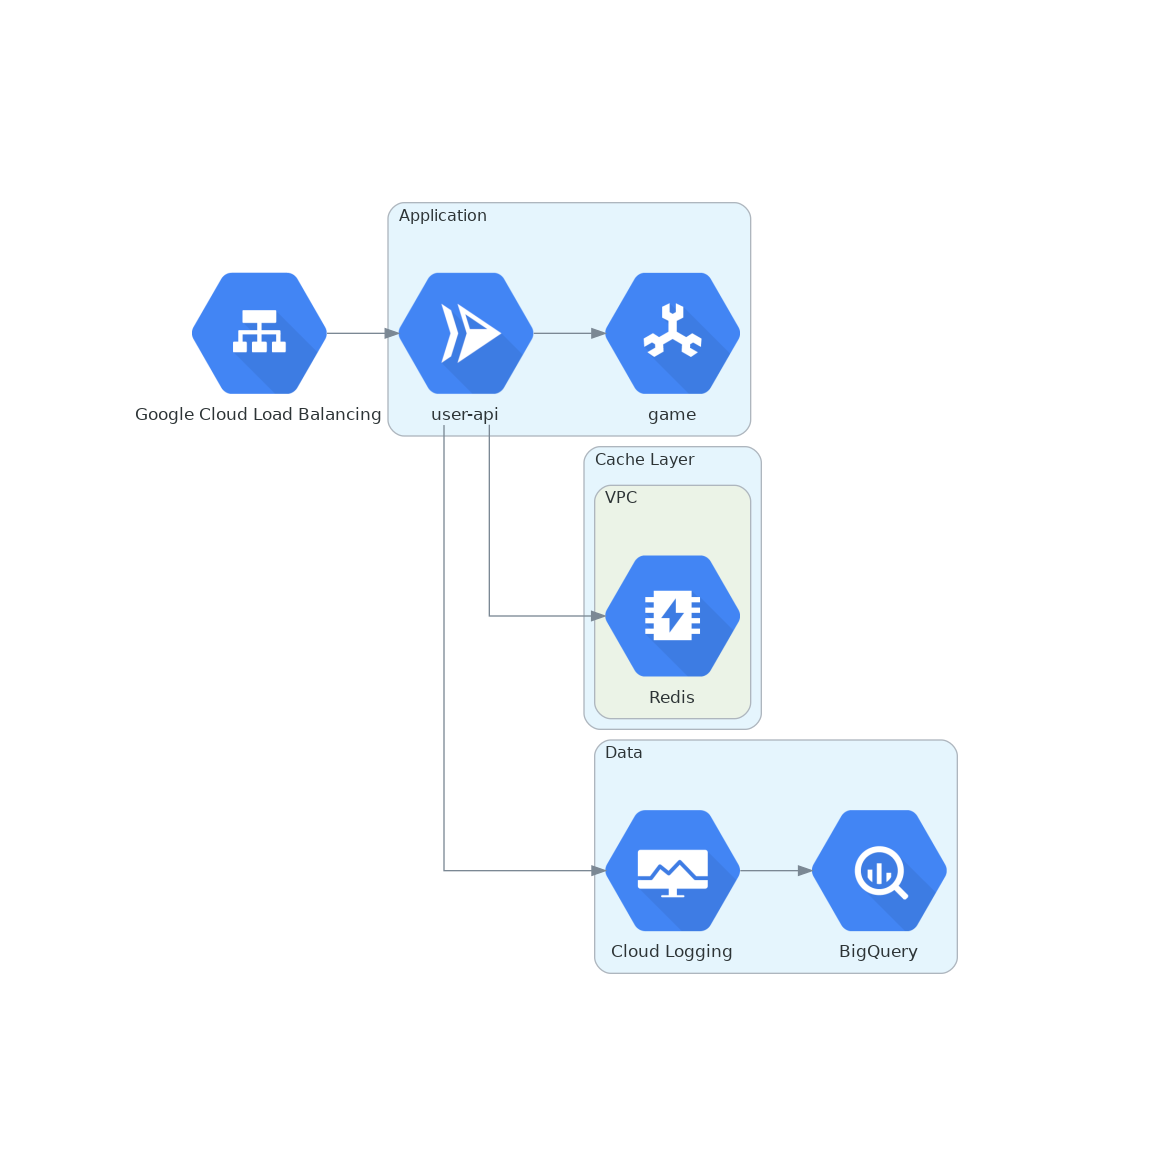
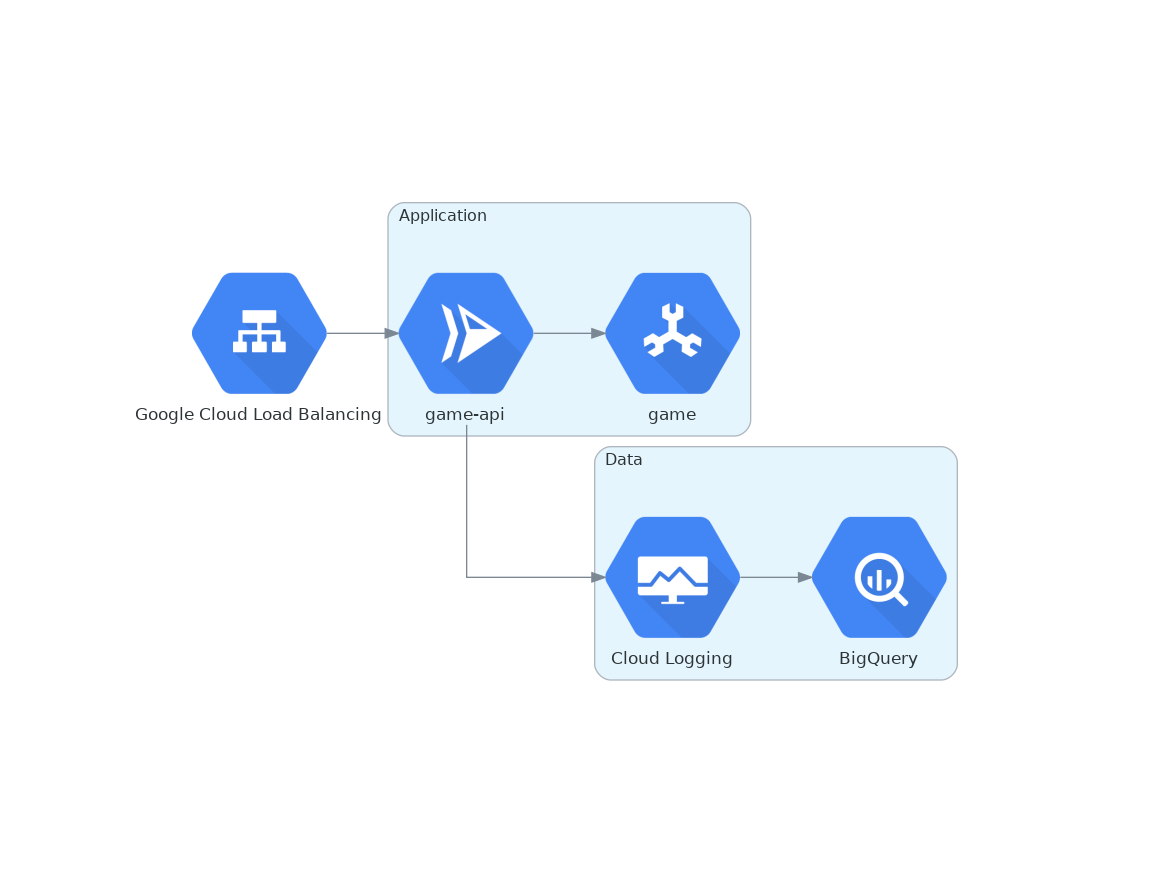
modify it following to this case

Changed region(s): [[0.1241, 0.1529, 0.8379, 0.8562]]

diff --git a/diagram/main.py b/diagram/main.py
@@ -1,4 +1,3 @@
-from re import I
 from diagrams import Cluster, Diagram
 from diagrams.gcp.analytics import BigQuery
 from diagrams.gcp.compute import Run
@@ -11,16 +10,11 @@ with Diagram("", show=False):
     lb = LoadBalancing("Google Cloud Load Balancing")
 
     with Cluster("Application"):
-        run = Run("user-api")
+        run = Run("game-api")
         spanner = Spanner("game")
-    
-    with Cluster("Cache Layer"):
-        with Cluster("VPC"):
-            redis = Memorystore("Redis")
     
     lb >> run
     run >> spanner
-    run >> redis
 
     with Cluster("Data"):
         bq = BigQuery("BigQuery")
